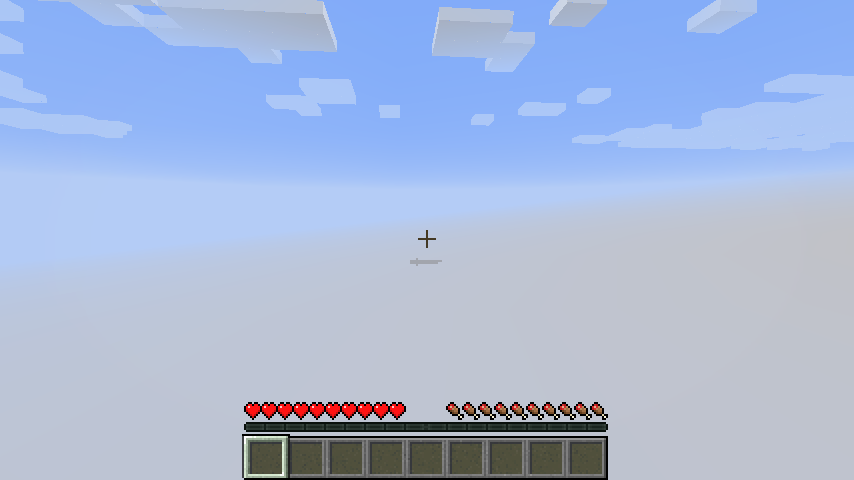
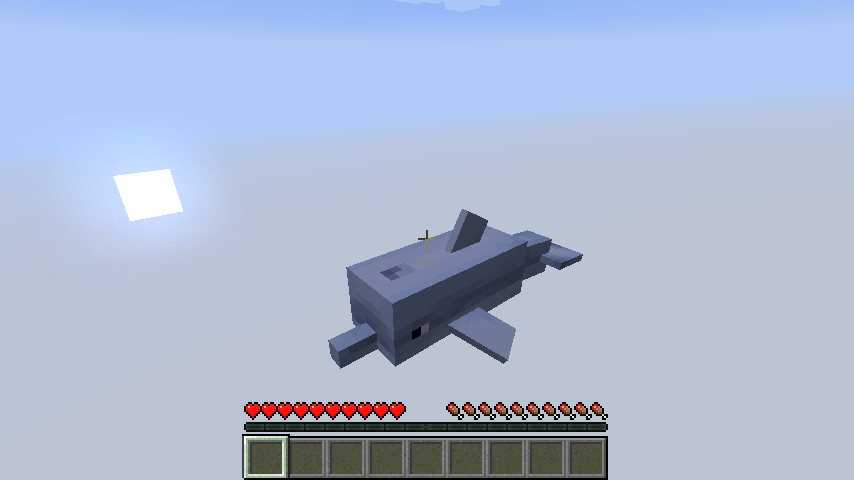
New packets, Position primitive and fixing Uuid encoding/decoding * new SpawnEntity and SpawnLivingEntity packets. * update ServerLoginTest with new SpawnLivingEntity and facing the entity.

diff --git a/src/commonMain/kotlin/br/com/devsrsouza/ktmcpacket/MinecraftProtocol.kt b/src/commonMain/kotlin/br/com/devsrsouza/ktmcpacket/MinecraftProtocol.kt
@@ -43,7 +43,7 @@ class MinecraftProtocol : BinaryFormat {
     }
 
     @InternalSerializationApi
-    private class MinecraftProtocolEncoder(
+    private open class MinecraftProtocolEncoder(
             val output: Output
     ) : TaggedEncoder<ProtocolDesc>() {
 
@@ -119,10 +119,31 @@ class MinecraftProtocol : BinaryFormat {
                     output.minecraft.writeString(enumDescription.getElementName(ordinal))
             }
         }
+
+        override fun beginStructure(
+            descriptor: SerialDescriptor,
+            vararg typeSerializers: KSerializer<*>
+        ): CompositeEncoder {
+            return when(descriptor.kind) {
+                is PrimitiveKind -> RepeatedMinecraftProtocolEncoder(
+                    output,
+                    ProtocolDesc(MinecraftNumberType.DEFAULT, MINECRAFT_MAX_STRING_LENGTH)
+                )
+                else -> super.beginStructure(descriptor, *typeSerializers)
+            }
+        }
     }
 
     @InternalSerializationApi
-    private class MinecraftProtocolDecoder(
+    private class RepeatedMinecraftProtocolEncoder(
+        output: Output,
+        val tag: ProtocolDesc
+    ) : MinecraftProtocolEncoder(output) {
+        override fun SerialDescriptor.getTag(index: Int) = tag
+    }
+
+    @InternalSerializationApi
+    private open class MinecraftProtocolDecoder(
         val input: Input
     ) : TaggedDecoder<ProtocolDesc>() {
         private var currentIndex = 0
@@ -197,6 +218,27 @@ class MinecraftProtocol : BinaryFormat {
 
         override fun SerialDescriptor.getTag(index: Int) =
             extractParameters(this, index)
+
+        override fun beginStructure(
+            descriptor: SerialDescriptor,
+            vararg typeParams: KSerializer<*>
+        ): CompositeDecoder {
+            return when(descriptor.kind) {
+                is PrimitiveKind -> RepeatedMinecraftProtocolDecoder(
+                    input,
+                    ProtocolDesc(MinecraftNumberType.DEFAULT, MINECRAFT_MAX_STRING_LENGTH)
+                )
+                else -> super.beginStructure(descriptor, *typeParams)
+            }
+        }
+    }
+
+    @InternalSerializationApi
+    private class RepeatedMinecraftProtocolDecoder(
+        input: Input,
+        val tag: ProtocolDesc
+    ) : MinecraftProtocolDecoder(input) {
+        override fun SerialDescriptor.getTag(index: Int) = tag
     }
 }
 

diff --git a/src/jvmTest/kotlin/ServerLoginTest.kt b/src/jvmTest/kotlin/ServerLoginTest.kt
@@ -104,22 +104,54 @@ suspend fun main() {
     output.writeVarInt(packet.size)
     output.write(packet.build().readBytes())
 
-    println("seding player position")
+    println("sending player position")
     response = MinecraftProtocol.dump(
             PlayerPositionAndLook.serializer(),
             PlayerPositionAndLook(
                     0.0,
                     64.0,
                     0.0,
-                    180f,
-                    180f,
-                    0x01,
+                    130f,
+                    25f,
+                    0x00,
                     1
             )
     )
 
     packet = BytePacketBuilder().apply {
         writeByte(0x36)
+        writeFully(response)
+    }
+    output.writeVarInt(packet.size)
+    output.write(packet.build().readBytes())
+
+    println("login complete!")
+
+    // others packets
+
+    delay(1000)
+
+    println("sending spawn living entity")
+    response = MinecraftProtocol.dump(
+        SpawnLivingEntity.serializer(),
+        SpawnLivingEntity(
+            3,
+            UUID.randomUUID(),
+            14,
+            -1.5,
+            64.0,
+            -1.5,
+            0u.toByte(),
+            0u.toByte(),
+            0u.toByte(),
+            0,
+            0,
+            0
+        )
+    )
+
+    packet = BytePacketBuilder().apply {
+        writeByte(0x03)
         writeFully(response)
     }
     output.writeVarInt(packet.size)

diff --git a/src/commonMain/kotlin/br/com/devsrsouza/ktmcpacket/types/Position.kt b/src/commonMain/kotlin/br/com/devsrsouza/ktmcpacket/types/Position.kt
@@ -1,0 +1,51 @@
+package br.com.devsrsouza.ktmcpacket.types
+
+import kotlinx.serialization.*
+
+fun Double.toPositionInt(): Int = (this * 32.0).toInt()
+fun Int.toPositionDouble(): Double = this / 32.0
+
+/**
+ * @see https://wiki.vg/Protocol#Position
+ */
+
+data class Position(
+    val x: Int,
+    val y: Int,
+    val z: Int
+) {
+    constructor(
+        x: Double,
+        y: Double,
+        z: Double
+    ) : this(
+        x.toPositionInt(),
+        y.toPositionInt(),
+        z.toPositionInt()
+    )
+
+    @Serializer(forClass = Position::class)
+    companion object : KSerializer<Position> {
+        override val descriptor: SerialDescriptor
+                = PrimitiveDescriptor("Position", PrimitiveKind.LONG)
+
+        override fun deserialize(decoder: Decoder): Position {
+            val serialized = decoder.decodeLong()
+
+            return Position(
+                (serialized shr 38).toInt(),
+                (serialized and 0xFFF).toInt(),
+                (serialized shl 26 shr 38).toInt()
+            )
+        }
+
+        override fun serialize(encoder: Encoder, value: Position) {
+            val serialized: Long = with(value) {
+                x.toLong() and 0x3FFFFFF shl 38 or (z.toLong() and 0x3FFFFFF shl 12) or (y.toLong() and 0xFFF)
+            }
+
+            encoder.encodeLong(serialized)
+        }
+
+    }
+}

diff --git a/src/commonMain/kotlin/br/com/devsrsouza/ktmcpacket/packets/server/play/SpawnLivingEntity.kt b/src/commonMain/kotlin/br/com/devsrsouza/ktmcpacket/packets/server/play/SpawnLivingEntity.kt
@@ -1,0 +1,36 @@
+package br.com.devsrsouza.ktmcpacket.packets.server.play
+
+import br.com.devsrsouza.ktmcpacket.MinecraftNumber
+import br.com.devsrsouza.ktmcpacket.MinecraftNumberType
+import br.com.devsrsouza.ktmcpacket.types.UUIDSerializer
+import com.benasher44.uuid.Uuid
+import kotlinx.serialization.Serializable
+
+@Serializable
+data class SpawnLivingEntity(
+    @MinecraftNumber(MinecraftNumberType.VAR)
+    val entityId: Int,
+
+    @Serializable(with = UUIDSerializer::class)
+    val uuid: Uuid,
+
+    @MinecraftNumber(MinecraftNumberType.VAR)
+    val type: Int, // FIXME: Type as Enum, same as SpawnEntity
+
+    val x: Double,
+    val y: Double,
+    val z: Double,
+
+    @MinecraftNumber(MinecraftNumberType.UNSIGNED)
+    val yaw: Byte, // Angle: Unsigned Byte 1-256
+
+    @MinecraftNumber(MinecraftNumberType.UNSIGNED)
+    val pitch: Byte, // Angle: Unsigned Byte 1-256
+
+    @MinecraftNumber(MinecraftNumberType.UNSIGNED)
+    val headPitch: Byte, // Angle: Unsigned Byte 1-256
+
+    val velocityX: Short,
+    val velocityY: Short,
+    val velocityZ: Short
+)

diff --git a/src/commonMain/kotlin/br/com/devsrsouza/ktmcpacket/packets/server/play/SpawnEntity.kt b/src/commonMain/kotlin/br/com/devsrsouza/ktmcpacket/packets/server/play/SpawnEntity.kt
@@ -1,0 +1,36 @@
+package br.com.devsrsouza.ktmcpacket.packets.server.play
+
+import br.com.devsrsouza.ktmcpacket.MinecraftNumber
+import br.com.devsrsouza.ktmcpacket.MinecraftNumberType
+import br.com.devsrsouza.ktmcpacket.types.UUIDSerializer
+import com.benasher44.uuid.Uuid
+import kotlinx.serialization.ContextualSerialization
+import kotlinx.serialization.Serializable
+
+@Serializable
+data class SpawnEntity(
+    @MinecraftNumber(MinecraftNumberType.VAR)
+    val entityId: Int,
+
+    @Serializable(with = UUIDSerializer::class)
+    val uuid: Uuid,
+
+    @MinecraftNumber(MinecraftNumberType.VAR)
+    val type: Int, // FIXME: Type as Enum
+
+    val x: Double,
+    val y: Double,
+    val z: Double,
+
+    @MinecraftNumber(MinecraftNumberType.UNSIGNED)
+    val pitch: Byte, // Angle: Unsigned Byte 1-256
+
+    @MinecraftNumber(MinecraftNumberType.UNSIGNED)
+    val yaw: Byte, // Angle: Unsigned Byte 1-256
+
+    val data: Int,
+
+    val velocityX: Short,
+    val velocityY: Short,
+    val velocityZ: Short
+)

diff --git a/src/commonMain/kotlin/br/com/devsrsouza/ktmcpacket/types/Uuid.kt b/src/commonMain/kotlin/br/com/devsrsouza/ktmcpacket/types/Uuid.kt
@@ -11,8 +11,10 @@ object UUIDSerializer : KSerializer<Uuid> {
         PrimitiveDescriptor("UUID", PrimitiveKind.LONG)
 
     override fun serialize(encoder: Encoder, value: Uuid) {
-        encoder.encodeLong(value.mostSignificantBits)
-        encoder.encodeLong(value.leastSignificantBits)
+        encoder.encodeStructure(descriptor) {
+            encodeLongElement(descriptor, 0, value.mostSignificantBits)
+            encodeLongElement(descriptor, 1, value.leastSignificantBits)
+        }
     }
 
     override fun deserialize(decoder: Decoder): Uuid {

diff --git a/README.md b/README.md
@@ -1,7 +1,7 @@
 # kt-mc-packet
 
-A Minecraft Java Edition packet library for Kotlin multiplatform that uses Kotlinx.serialization 
-to Encode and Decode Minecraft packets into objects.
+A Minecraft Java Edition Protocol library for Kotlin multiplatform that uses Kotlinx.serialization 
+to Encode and Decode Minecraft packets as kotlin data classes.
 
 ## Usage
 
